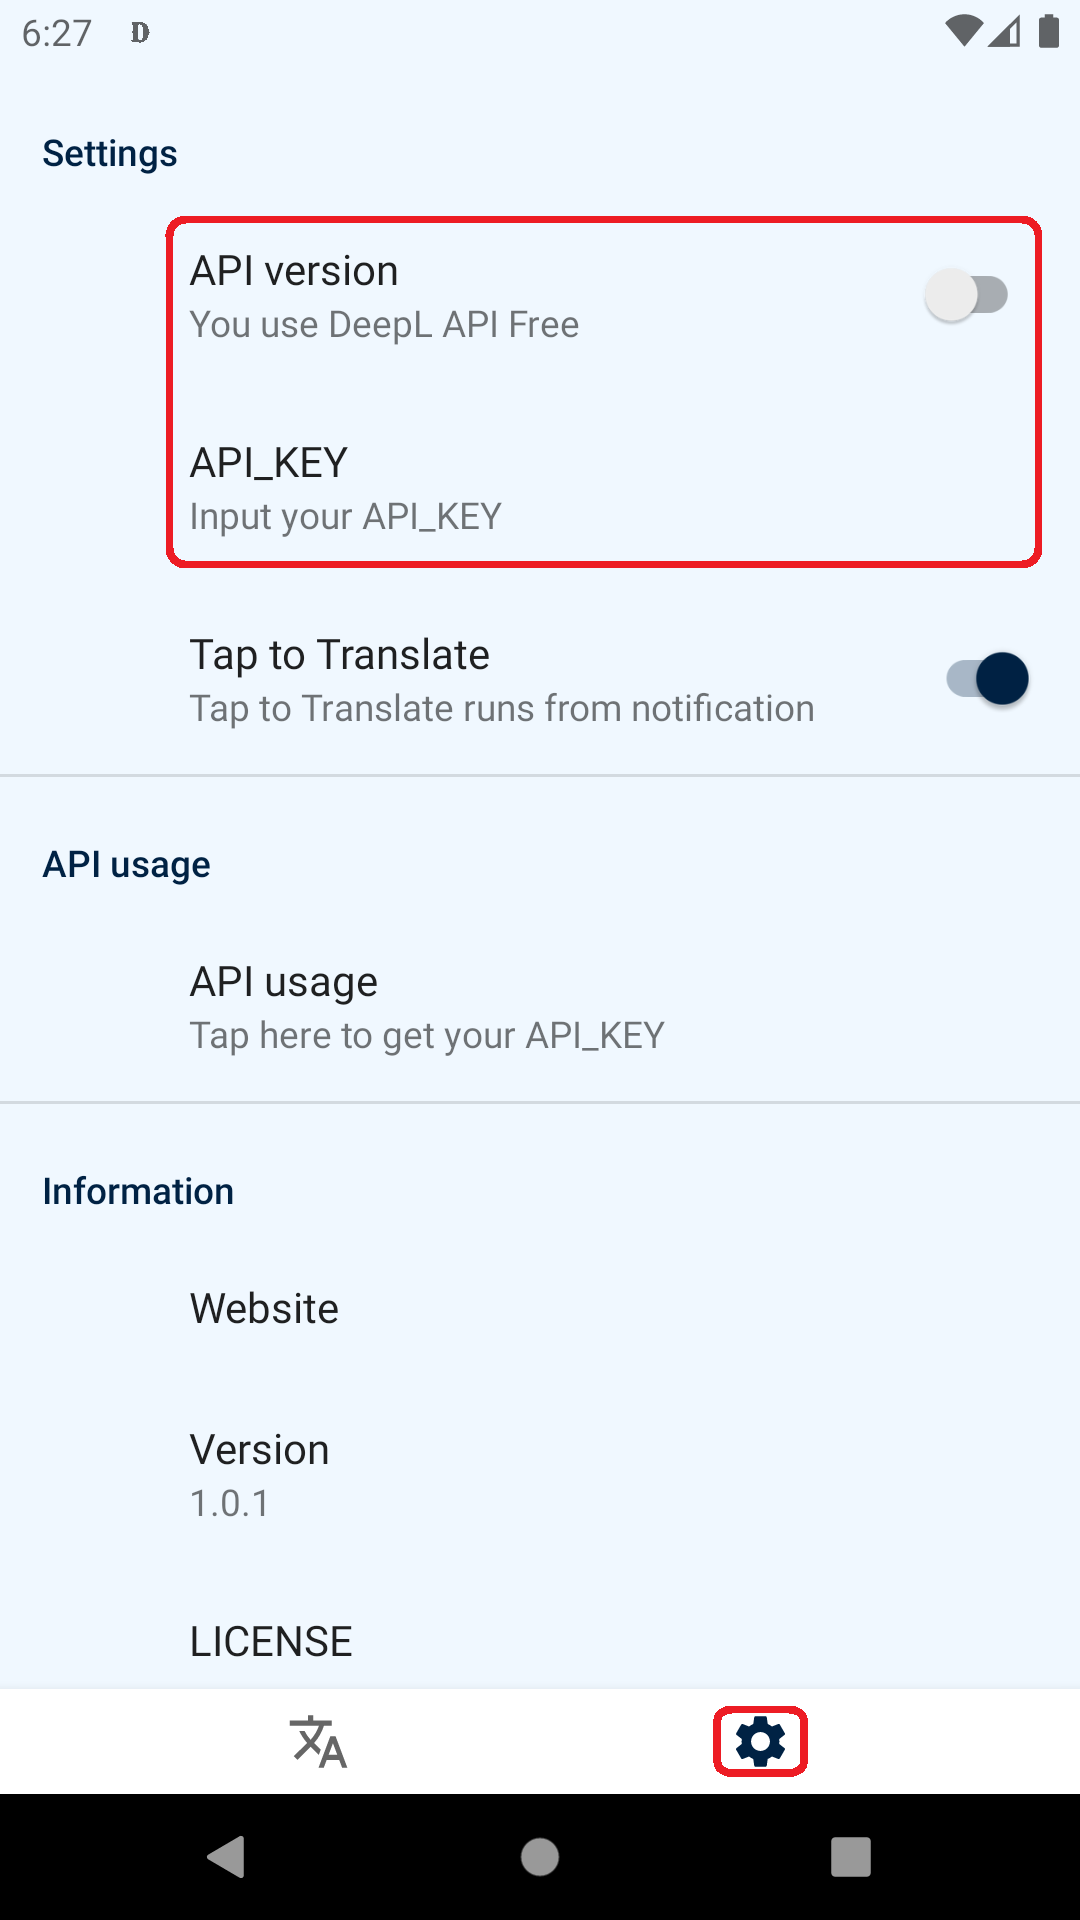
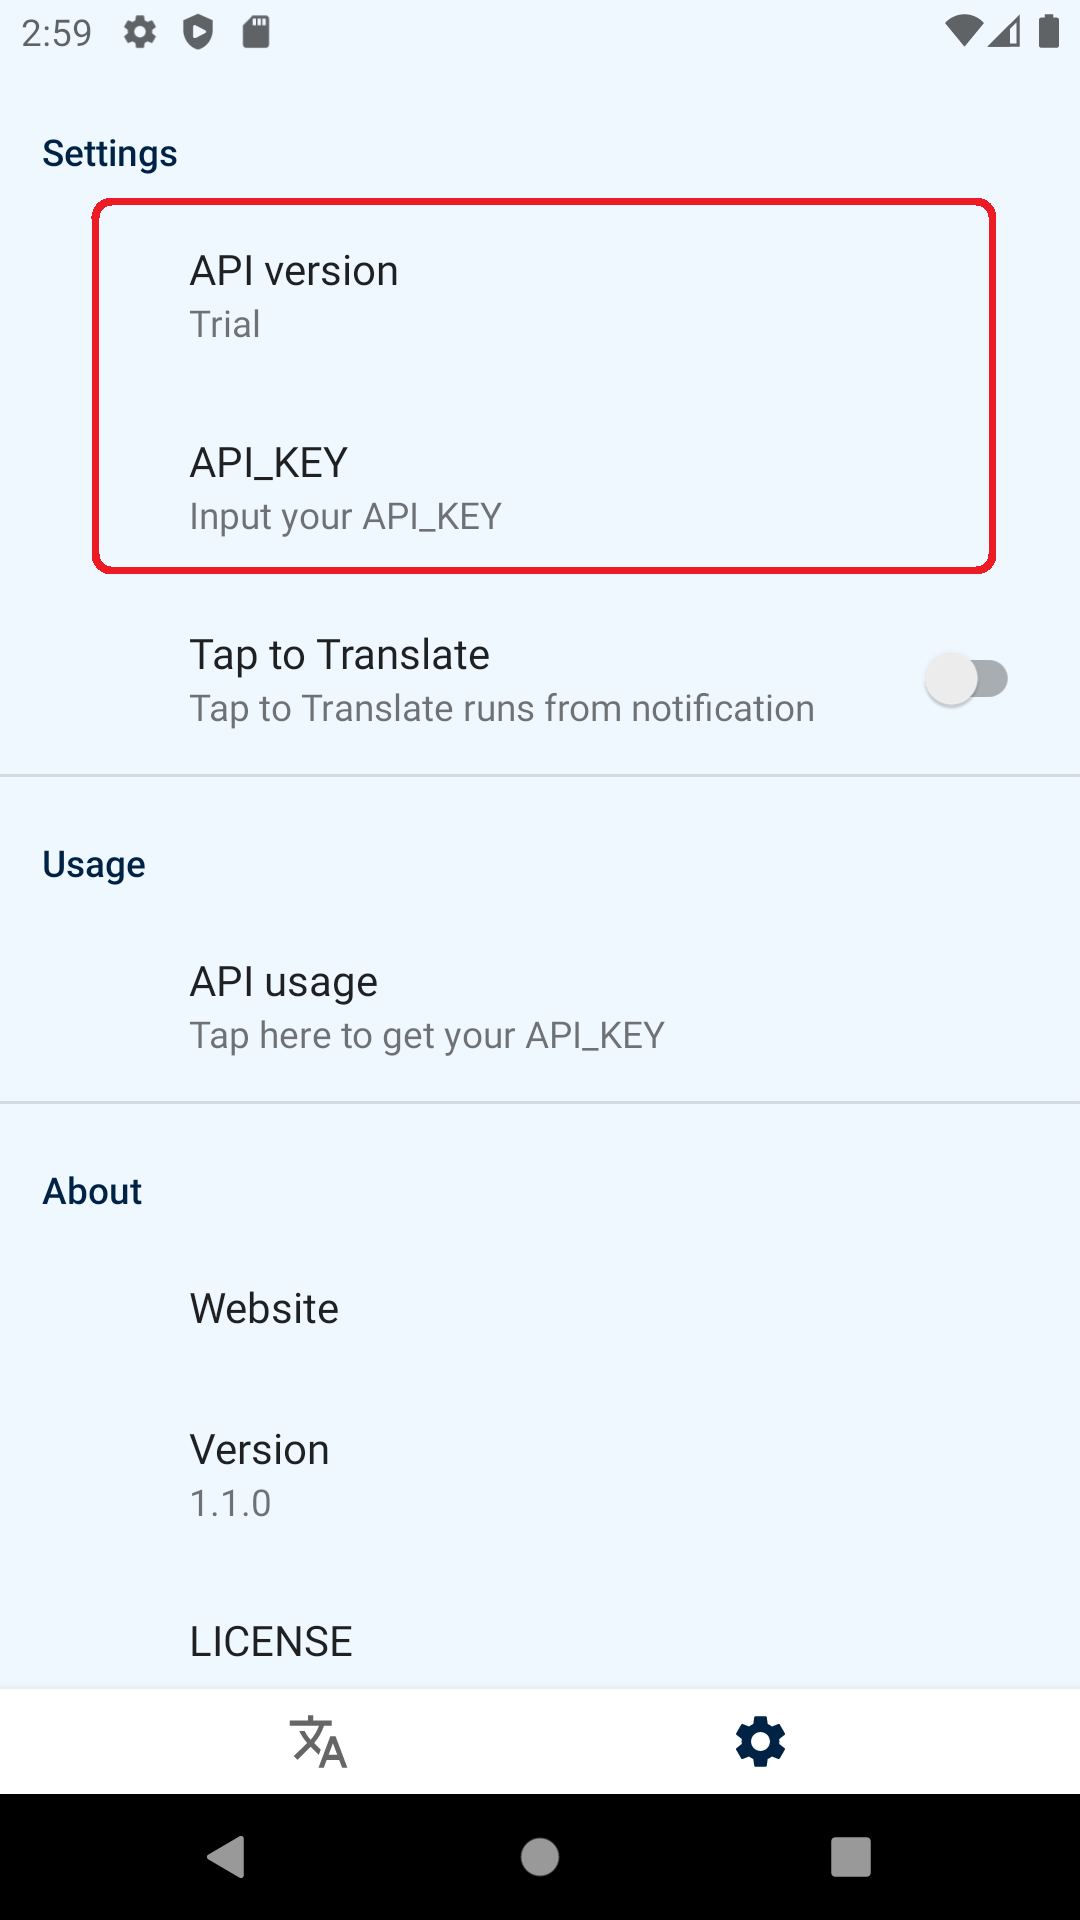
update: Trialの説明追加

diff --git a/docs/DeepLopener_for_Android/how_to_use.md b/docs/DeepLopener_for_Android/how_to_use.md
@@ -10,13 +10,14 @@ repository_url: https://github.com/T3aHat/DeepLopenerSeries
    ![price.png](/assets/images/price.png)  
    _from [deepl.com](https://www.deepl.com/en/pro/change-plan#developer)_  
 
-   If you use DeepL API Free, you can translate text for max. 500,000 characters/month.  
+   If you use DeepL API Free, you can translate text for max 500,000 characters/month.  
 
 2.  **Download [DeepLopener for Android](https://play.google.com/store/apps/details?id=com.teahat.deeplopener)**  
 <a href="https://play.google.com/store/apps/details?id=com.teahat.deeplopener" target="_blank" rel="noopener noreferrer"><img src="https://play.google.com/intl/ja/badges/static/images/badges/en_badge_web_generic.png" alt="GooglePlay" width="200px" ></a>
 
 3.  **Input your API_KEY and change a setting of API version on settings page** ![settings.png](/assets/images/outline_settings_black_24dp.png)  
-    - If you use Pro version API, switch `API version` to enabled.  
+    - If you don't have API_KEY and want to try this app, please select `Trial`. Otherwise, select the API version you have.
+      - The `Trial` version can translate up to 5000 words per month by Free API, so please do not translate confidential information.
 
 <img src="/assets/images/settings_api.png" alt="settings_api.png" style="width: 50%;">
 
